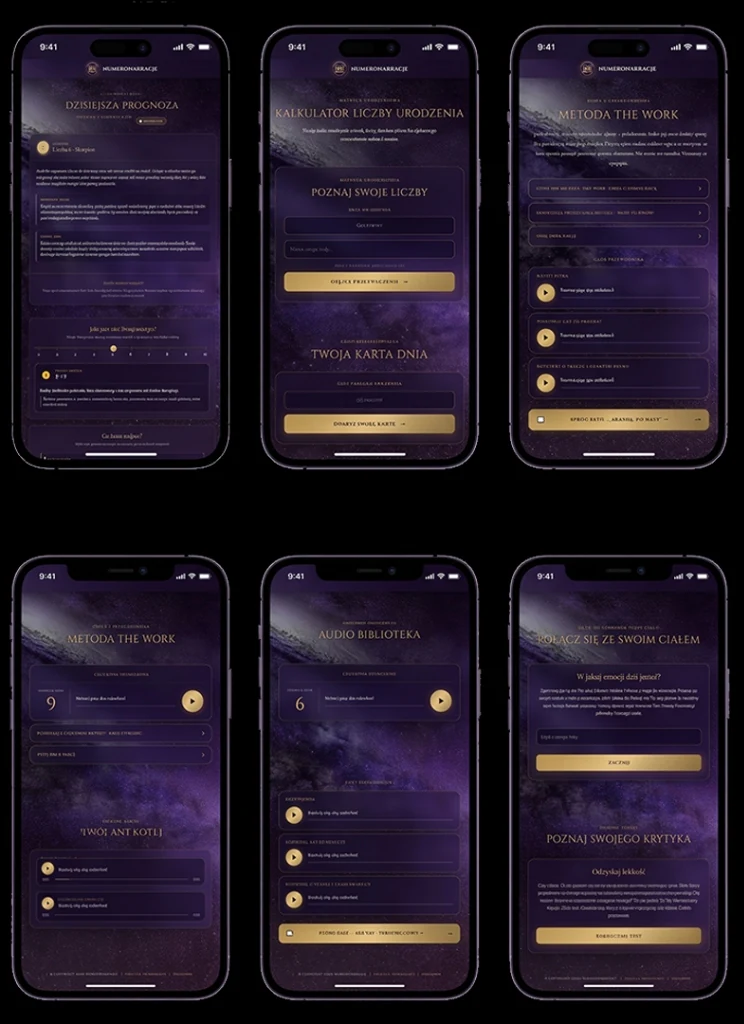
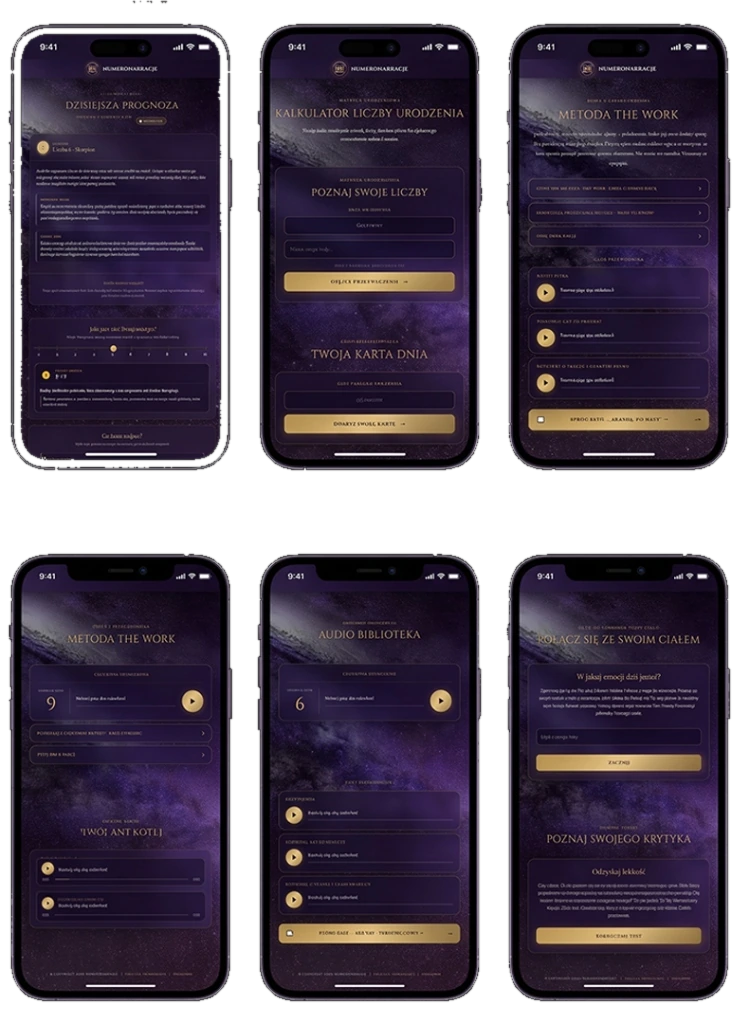
Poprawki: przezroczyste tlo 6 ekranow, tytul -30% w 2 liniach, karuzela co 6s z zatrzymaniem palcem i usuniecie strzalek

Changed region(s): [[0.0, 0.0, 1.0, 1.0]]

diff --git a/index.html b/index.html
@@ -51,7 +51,7 @@
     -webkit-font-smoothing:antialiased;
   }
   h1,h2,h3{font-family:'Playfair Display',Georgia,serif;font-weight:600;line-height:1.2;margin:0 0 .6em;color:var(--cream)}
-  h1{font-size:clamp(1.9rem,6.4vw,3.2rem)}
+  h1{font-size:clamp(1.4rem,3vw,2.2rem);line-height:1.25;max-width:860px;margin:0 auto 16px}
   h2{font-size:clamp(1.55rem,4.6vw,2.2rem);text-align:center}
   h3{font-size:1.2rem}
   p{margin:0 0 1em}
@@ -288,7 +288,7 @@
   /* HERO WYŚRODKOWANY & KARUZELA */
   .hero-centered{padding:48px 0 64px;text-align:center}
   .hero-intro{max-width:780px;margin:0 auto 36px}
-  .hero-intro h1{margin-bottom:16px}
+  .hero-intro h1{font-size:clamp(1.4rem,3vw,2.2rem);line-height:1.25;max-width:860px;margin:0 auto 16px}
   .hero-intro .sub{font-size:1.15rem;color:var(--cream-soft);margin-bottom:0}
 
   .hero-carousel-wrap{
@@ -299,11 +299,10 @@
   }
   .hero-carousel{
     position:relative;
-    min-height:500px;
+    min-height:540px;
     display:flex;
     align-items:center;
     justify-content:center;
-    perspective:1200px;
   }
   .carousel-slide{
     position:absolute;
@@ -314,15 +313,15 @@
     justify-content:center;
     opacity:0;
     visibility:hidden;
-    transform:scale(0.92) translateY(12px);
-    transition:opacity .45s cubic-bezier(.2,.8,.2,1), transform .45s cubic-bezier(.2,.8,.2,1), visibility .45s;
+    transform:scale(0.94);
+    transition:opacity .5s cubic-bezier(.2,.8,.2,1), transform .5s cubic-bezier(.2,.8,.2,1);
     pointer-events:none;
   }
   .carousel-slide.active{
     position:relative;
     opacity:1;
     visibility:visible;
-    transform:scale(1) translateY(0);
+    transform:scale(1);
     pointer-events:auto;
   }
   .mockup-frame{
@@ -341,15 +340,15 @@
     position:relative;
     z-index:1;
     display:block;
-    max-height:480px;
+    max-height:510px;
+    max-width:90vw;
     width:auto;
     height:auto;
-    filter:drop-shadow(0 20px 40px rgba(10,3,15,.65));
+    filter:drop-shadow(0 22px 45px rgba(10,3,15,.7));
     transition:transform .3s ease;
   }
   .mockup-tablet img{
     border-radius:24px;
-    box-shadow:0 24px 60px rgba(0,0,0,.5),0 0 0 1px rgba(255,255,255,.08);
   }
   .mockup-frame:hover img{
     transform:scale(1.02);
@@ -442,15 +441,18 @@
     z-index:1;
     display:block;
     width:100%;
+    max-width:760px;
+    margin:0 auto;
     height:auto;
-    border-radius:24px;
-    border:1px solid rgba(78,131,151,.35);
-    box-shadow:0 24px 60px rgba(0,0,0,.6), 0 0 0 1px rgba(255,255,255,.05);
-    transition:transform .3s ease, box-shadow .3s ease;
+    border:none;
+    border-radius:0;
+    box-shadow:none;
+    filter:drop-shadow(0 20px 45px rgba(10,3,15,.7));
+    transition:transform .3s ease, filter .3s ease;
   }
   .gallery-poster:hover img{
-    transform:translateY(-3px);
-    box-shadow:0 30px 70px rgba(0,0,0,.7), 0 0 0 1px rgba(212,165,116,.2);
+    transform:translateY(-4px);
+    filter:drop-shadow(0 26px 55px rgba(10,3,15,.8));
   }
   .gallery-poster figcaption{
     margin-top:16px;
@@ -541,13 +543,7 @@
           </div>
         </div>
 
-        <!-- Przyciski nawigacji lewo/prawo -->
-        <button class="carousel-btn prev" id="carouselPrev" aria-label="Poprzedni slajd">
-          <svg width="22" height="22" viewBox="0 0 24 24" fill="none" stroke="currentColor" stroke-width="2.2" stroke-linecap="round" stroke-linejoin="round"><polyline points="15 18 9 12 15 6"></polyline></svg>
-        </button>
-        <button class="carousel-btn next" id="carouselNext" aria-label="Następny slajd">
-          <svg width="22" height="22" viewBox="0 0 24 24" fill="none" stroke="currentColor" stroke-width="2.2" stroke-linecap="round" stroke-linejoin="round"><polyline points="9 18 15 12 9 6"></polyline></svg>
-        </button>
+
 
         <!-- Kropki pod karuzelą -->
         <div class="carousel-dots" id="carouselDots" role="tablist" aria-label="Wybierz slajd">
@@ -705,6 +701,107 @@
   (function(){
     var r = document.getElementById('rok');
     if(r) r.textContent = new Date().getFullYear();
+  })();
+
+  // Karuzela zrzutów w Hero: rotacja co 6s, zatrzymanie palcem/kursorem, kropki i swipe
+  (function(){
+    var slides = document.querySelectorAll('.carousel-slide');
+    var dots = document.querySelectorAll('.carousel-dots .dot');
+    var carouselWrap = document.querySelector('.hero-carousel-wrap');
+    if(!slides.length) return;
+
+    var current = 0;
+    var total = slides.length;
+    var autoTimer = null;
+    var isPaused = false;
+
+    function goTo(idx){
+      slides[current].classList.remove('active');
+      dots[current].classList.remove('active');
+      dots[current].setAttribute('aria-selected', 'false');
+
+      current = (idx + total) % total;
+
+      slides[current].classList.add('active');
+      dots[current].classList.add('active');
+      dots[current].setAttribute('aria-selected', 'true');
+    }
+
+    function next(){
+      goTo(current + 1);
+    }
+
+    function prev(){
+      goTo(current - 1);
+    }
+
+    // Kliknięcie kropek
+    dots.forEach(function(dot){
+      dot.addEventListener('click', function(){
+        var i = parseInt(this.getAttribute('data-index'), 10);
+        goTo(i);
+        restartTimer();
+      });
+    });
+
+    function startTimer(){
+      stopTimer();
+      if(!isPaused){
+        autoTimer = setInterval(next, 6000); // 6 sekund
+      }
+    }
+
+    function stopTimer(){
+      if(autoTimer){
+        clearInterval(autoTimer);
+        autoTimer = null;
+      }
+    }
+
+    function restartTimer(){
+      stopTimer();
+      startTimer();
+    }
+
+    if(carouselWrap){
+      // Zatrzymanie po najechaniu myszką
+      carouselWrap.addEventListener('mouseenter', function(){
+        isPaused = true;
+        stopTimer();
+      });
+      carouselWrap.addEventListener('mouseleave', function(){
+        isPaused = false;
+        startTimer();
+      });
+
+      // Zatrzymanie palcem na smartfonie / tablecie
+      var touchStartX = 0;
+      var touchEndX = 0;
+
+      carouselWrap.addEventListener('touchstart', function(e){
+        isPaused = true;
+        stopTimer();
+        if(e.changedTouches && e.changedTouches[0]){
+          touchStartX = e.changedTouches[0].screenX;
+        }
+      }, {passive:true});
+
+      carouselWrap.addEventListener('touchend', function(e){
+        if(e.changedTouches && e.changedTouches[0]){
+          touchEndX = e.changedTouches[0].screenX;
+          var diff = touchStartX - touchEndX;
+          if(Math.abs(diff) > 40){
+            if(diff > 0) next(); else prev();
+          }
+        }
+        // Po oderwaniu palca wznawiamy automatyczne przewijanie po 6s
+        isPaused = false;
+        startTimer();
+      }, {passive:true});
+    }
+
+    // Start od razu
+    startTimer();
   })();
 </script>
 </body>
